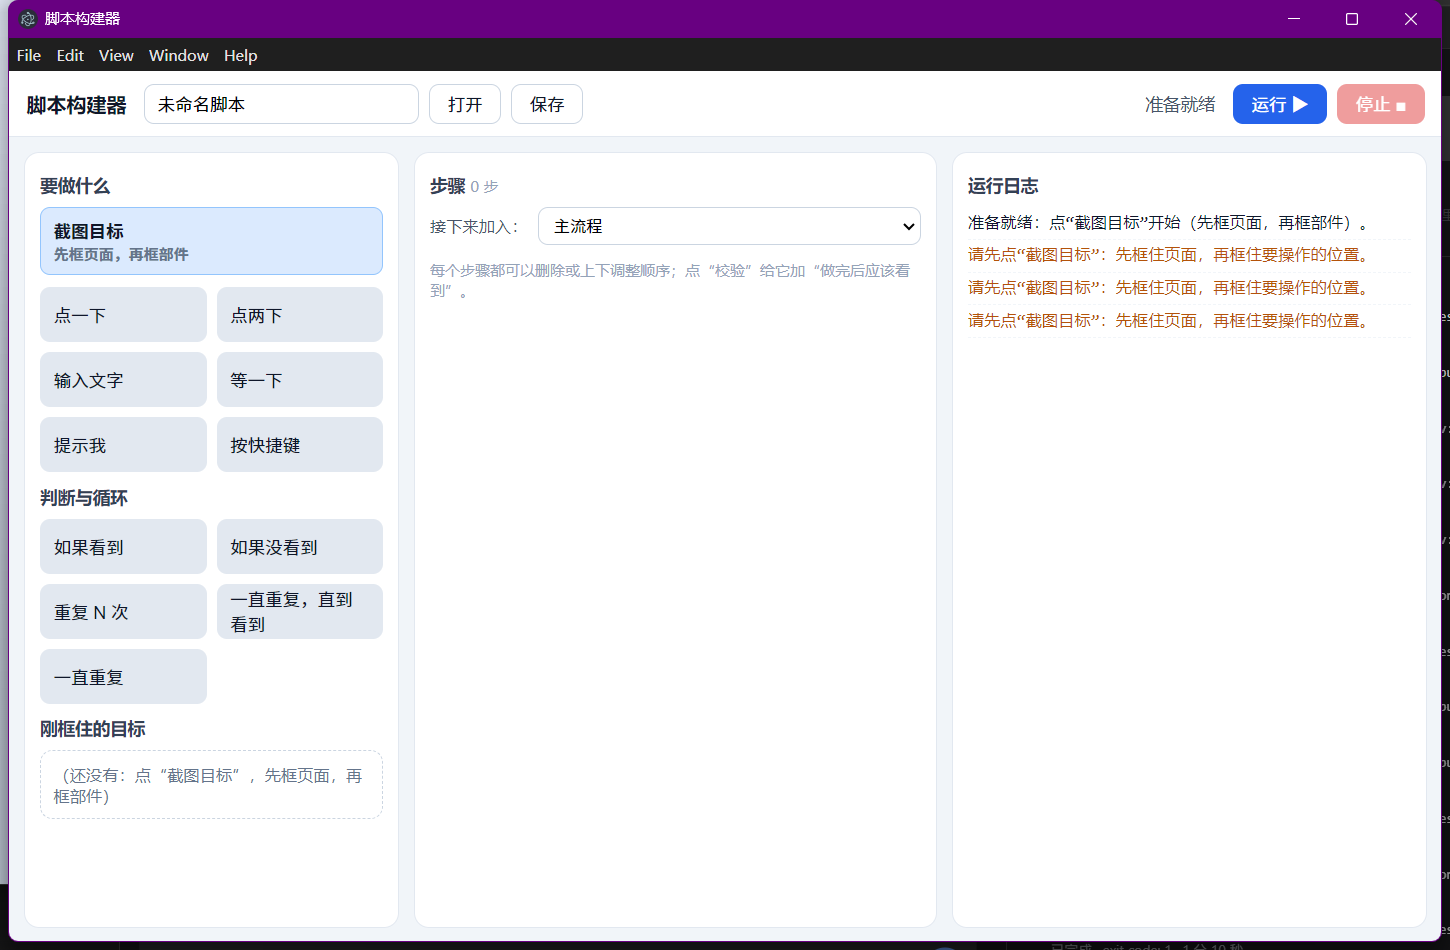
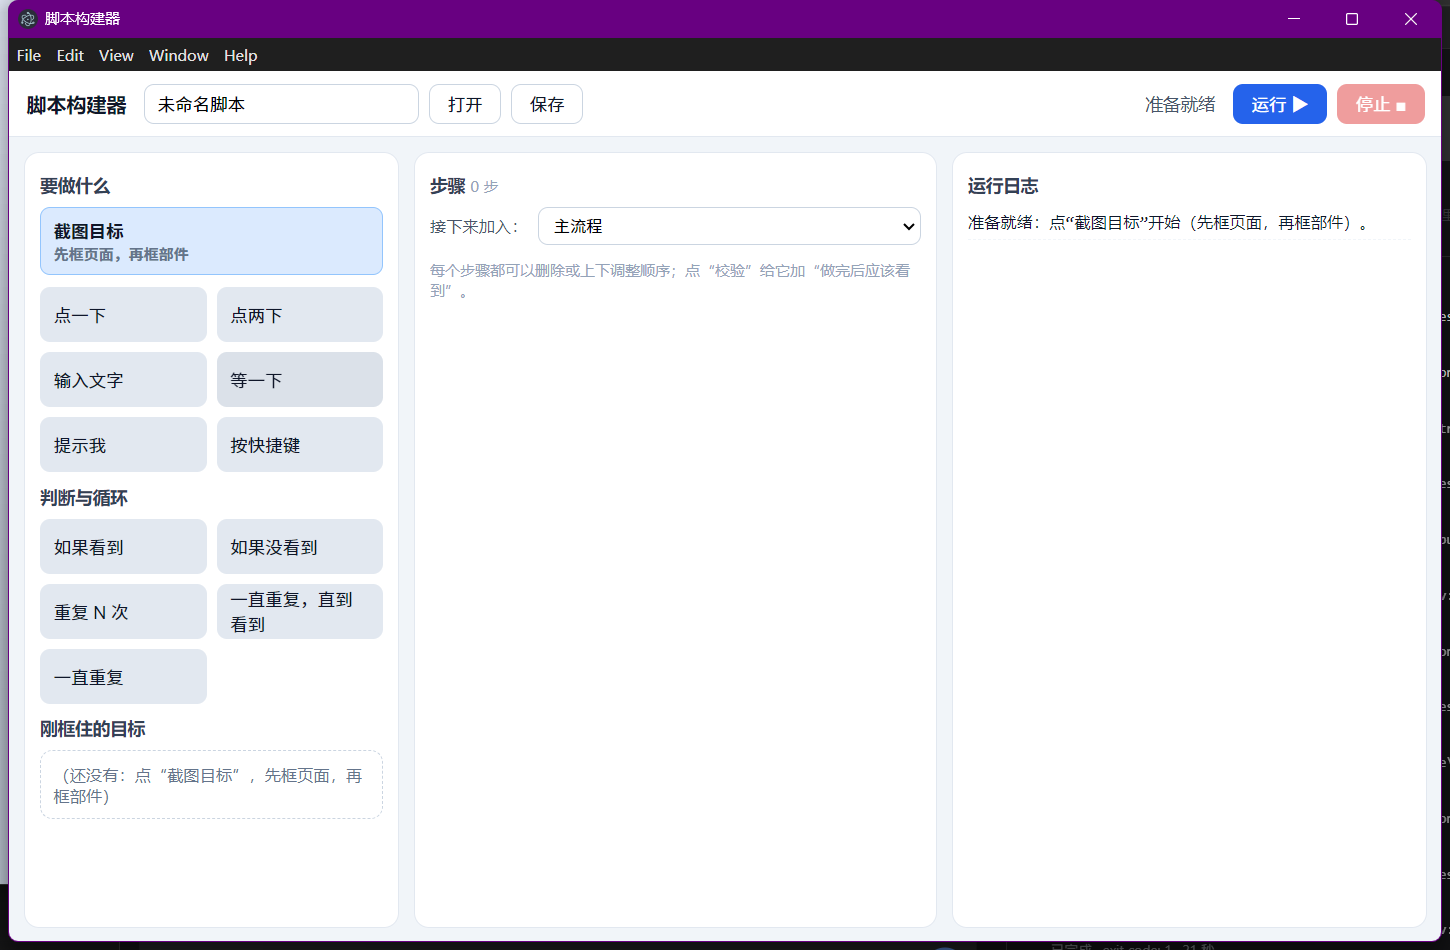
M1波次3(八): 把“多步骤整体循环”固化成回归测试 + 循环语义验证脚本
用户提问“多个步骤需要作为一个整体循环该怎么处理”，先离线核实引擎语义并固化：
- test_executor.LoopTest +3：
  · test_count_loop_multi_step_body：body 里 3 个步骤整体重复 2 次 →
    通知序列 甲,乙,丙,甲,乙,丙（顺序与次数都对）
  · test_loop_then_main_flow_step：循环之后的主流程步骤只跑一次
    （甲,乙,甲,乙,尾 —— 循环不吞后面的步骤）
  · test_nested_loop_order_and_iterations：循环里套循环 2×2 →
    外,内,内,外,内,内，迭代次数 [2,2,2]
- smoke/diag/verify_loop.py：同一批用例的独立验证脚本（含“循环体里放条件”与
  “批量填表骨架：重复 3 次 {输入文字 → 提示我}”，实测 types=3、迭代 3）

测试：test_executor 循环相关 7/7 通过。

diff --git a/smoke/diag/verify_loop.py b/smoke/diag/verify_loop.py
@@ -1,0 +1,83 @@
+# -*- coding: utf-8 -*-
+"""验证“多个步骤作为一个整体循环”的引擎语义（离线，合成屏，不碰真实桌面）。
+
+用例：
+ 1) 3 个步骤放进一个“重复 2 次”→ 期望按 甲,乙,丙,甲,乙,丙 顺序整体跑两遍
+ 2) 循环之后的主流程步骤只跑一次
+ 3) 循环里再套循环（嵌套）→ 次数相乘、顺序正确
+ 4) 循环体里放“如果看到…就点它”（循环 + 条件的组合，真实场景）
+"""
+import sys
+from pathlib import Path
+
+ROOT = Path(__file__).resolve().parents[2]
+sys.path.insert(0, str(ROOT))
+
+from engine.tests import support as S  # noqa: E402
+from engine.tests.test_executor import Env  # noqa: E402
+
+
+_seq = [0]
+
+
+def notify(msg):
+    _seq[0] += 1
+    return S.action_step(f"n{_seq[0]}", "notify", None, {"message": msg})
+
+
+def run(name, steps):
+    env = Env()
+    sg = S.script(name, steps)
+    rep = env.run(sg)
+    loops = [r for r in rep["steps"] if r.get("type") == "loop" and "iterations" in r]
+    print(f"[{name}] status={rep['status']} 通知序列={env.human.notified} "
+          f"循环迭代={[r['iterations'] for r in loops]}")
+    return env, rep
+
+
+print("① 三个步骤作为一个整体重复 2 次")
+run("整体循环", [
+    S.loop_step("l1", {"mode": "count", "count": 2},
+                body=[notify("甲"), notify("乙"), notify("丙")]),
+])
+
+print("② 循环之后再接一个主流程步骤")
+run("循环后接步骤", [
+    S.loop_step("l1", {"mode": "count", "count": 2}, body=[notify("甲"), notify("乙")]),
+    notify("尾"),
+])
+
+print("③ 循环里再套循环（2 × 2）")
+run("嵌套循环", [
+    S.loop_step("l1", {"mode": "count", "count": 2}, body=[
+        notify("外"),
+        S.loop_step("l2", {"mode": "count", "count": 2}, body=[notify("内")]),
+    ]),
+])
+
+print("④ 循环体里放“如果看到按钮就点它”（条件在循环里：看到才点）")
+env = Env()
+sg = S.script("条件循环", [
+    S.loop_step("l1", {"mode": "count", "count": 3}, body=[
+        S.condition_step("c1", env.t_login("login_btn"), exists=True,
+                         then=[S.action_step("a1", "click", env.t_login("login_btn"), None)]),
+    ]),
+])
+rep = env.run(sg)
+loops = [r for r in rep["steps"] if r.get("type") == "loop" and "iterations" in r]
+print(f"[条件循环] status={rep['status']} 点击次数={len(env.driver.clicks)} "
+      f"循环迭代={[r['iterations'] for r in loops]} "
+      f"（点一下就跳到首页 → 之后两次“看不到”自然不点，语义正确）")
+
+print("⑤ 批量填表骨架：重复 3 次 { 输入文字 → 提示我 }")
+env = Env()
+sg = S.script("批量填表", [
+    S.loop_step("l1", {"mode": "count", "count": 3}, body=[
+        S.action_step("b1", "type", env.t_login("pwd_box", text="密码"), {"text": "abc"}),
+        S.action_step("b2", "notify", None, {"message": "存一次"}),
+    ]),
+])
+rep = env.run(sg)
+loops = [r for r in rep["steps"] if r.get("type") == "loop" and "iterations" in r]
+print(f"[批量填表] status={rep['status']} 输入次数={rep['counters']['types']}（期望 3）"
+      f" 通知={env.human.notified} 循环迭代={[r['iterations'] for r in loops]}")

diff --git a/engine/tests/test_executor.py b/engine/tests/test_executor.py
@@ -362,6 +362,48 @@ class LoopTest(unittest.TestCase):
                      and r.get("status") == "ok" and "iterations" in r]
         self.assertEqual(loop_rows[-1]["iterations"], 3)
 
+    def test_count_loop_multi_step_body(self):
+        """多个步骤作为一个整体循环：顺序与次数都要对（甲,乙,丙 ×2）。"""
+        env = Env()
+        sg = S.script("整体循环", [
+            S.loop_step("l1", {"mode": "count", "count": 2}, body=[
+                S.action_step("b1", "notify", None, {"message": "甲"}),
+                S.action_step("b2", "notify", None, {"message": "乙"}),
+                S.action_step("b3", "notify", None, {"message": "丙"}),
+            ])])
+        rep = env.run(sg)
+        self.assertEqual(rep["status"], "ok")
+        self.assertEqual(env.human.notified, ["甲", "乙", "丙", "甲", "乙", "丙"])
+
+    def test_loop_then_main_flow_step(self):
+        """循环之后的主流程步骤只跑一次（循环不吞后面的步骤）。"""
+        env = Env()
+        sg = S.script("循环后接步骤", [
+            S.loop_step("l1", {"mode": "count", "count": 2}, body=[
+                S.action_step("b1", "notify", None, {"message": "甲"}),
+                S.action_step("b2", "notify", None, {"message": "乙"})]),
+            S.action_step("t1", "notify", None, {"message": "尾"}),
+        ])
+        rep = env.run(sg)
+        self.assertEqual(rep["status"], "ok")
+        self.assertEqual(env.human.notified, ["甲", "乙", "甲", "乙", "尾"])
+
+    def test_nested_loop_order_and_iterations(self):
+        """循环里再套循环：次数相乘、顺序按嵌套展开（外,内,内 ×2）。"""
+        env = Env()
+        sg = S.script("嵌套循环", [
+            S.loop_step("l1", {"mode": "count", "count": 2}, body=[
+                S.action_step("b1", "notify", None, {"message": "外"}),
+                S.loop_step("l2", {"mode": "count", "count": 2}, body=[
+                    S.action_step("b2", "notify", None, {"message": "内"})]),
+            ])])
+        rep = env.run(sg)
+        self.assertEqual(rep["status"], "ok")
+        self.assertEqual(env.human.notified, ["外", "内", "内", "外", "内", "内"])
+        iters = [r["iterations"] for r in rep["steps"]
+                 if r.get("type") == "loop" and "iterations" in r]
+        self.assertEqual(iters, [2, 2, 2])          # 外层 2；内层每轮 2（末轮汇总）
+
     def test_until_loop_waits_page_change(self):
         """登录页点登录 → 跳转首页 → “直到看到登录成功”退出（1 次循环体）。"""
         env = Env()
